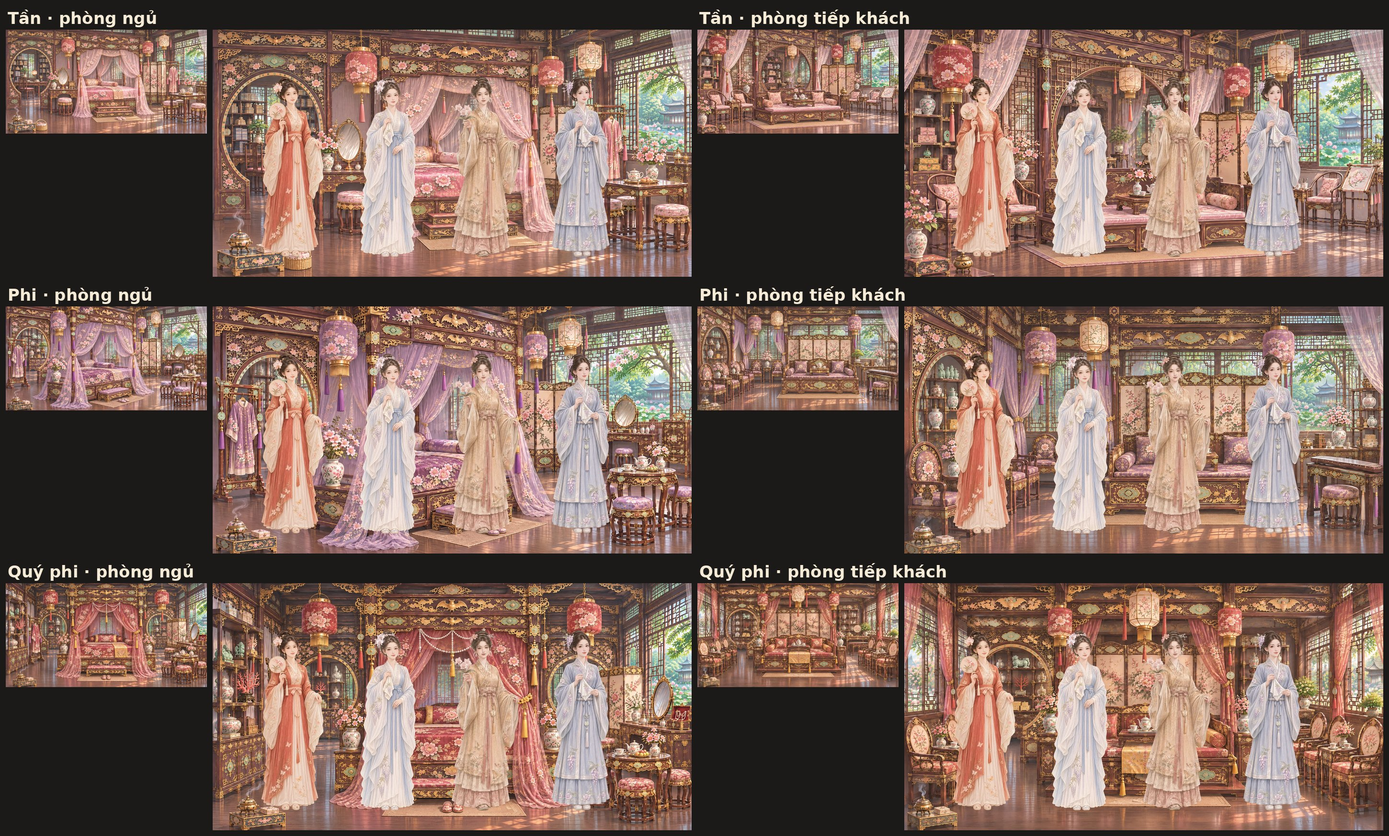
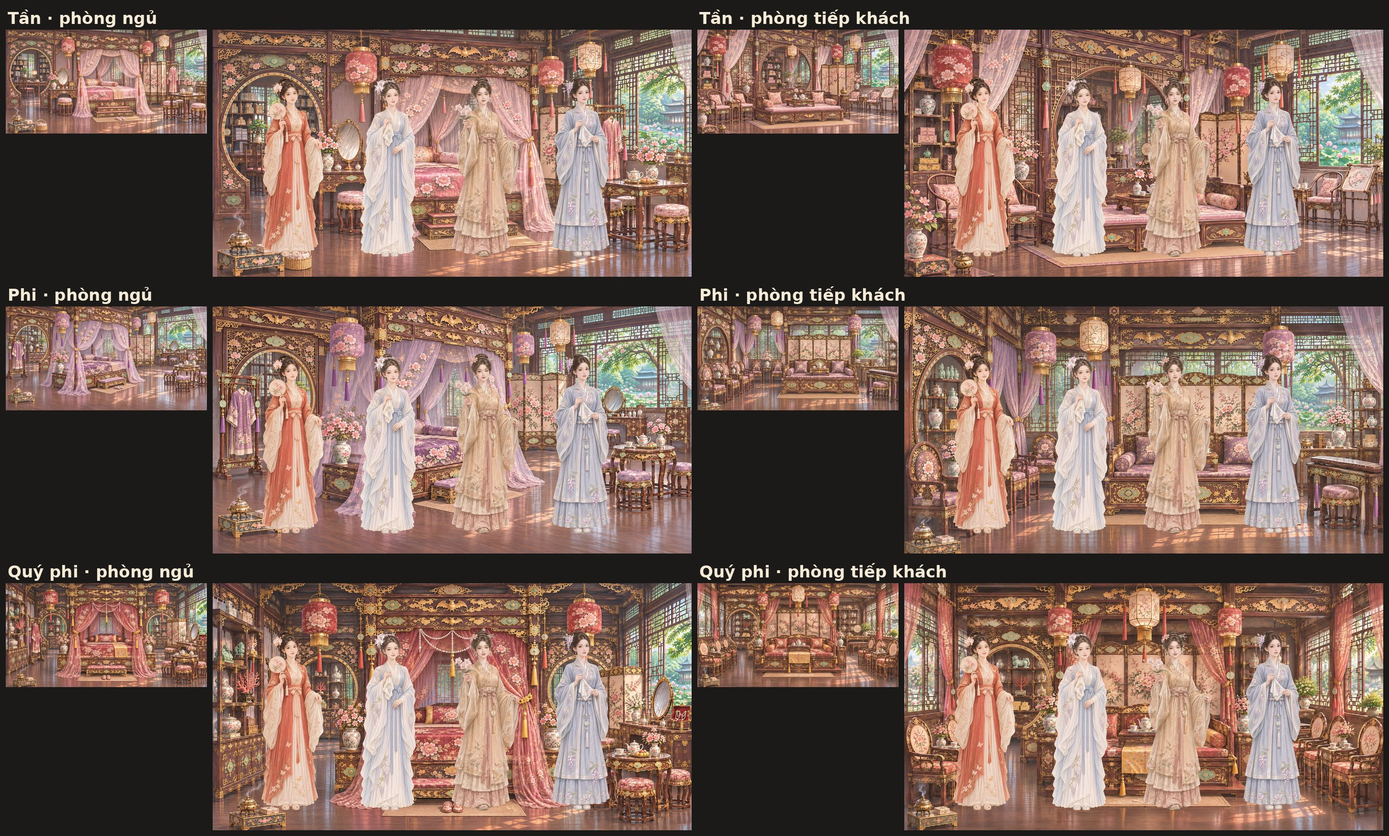
place-rank v6b PR7: Phi bedroom farther back (owner Lượt 548) + HQP prompts
Claude-Session: https://claude.ai/code/session_01PEhRbwronSNrACtu2Qiwhx

Changed region(s): [[0.0, 0.3402, 0.4966, 0.6804]]

diff --git a/dev/art/place-rank/prompts.py b/dev/art/place-rank/prompts.py
@@ -189,3 +189,66 @@ for k, p in out.items():
     out6[k] = q
 json.dump(out6, open(os.path.join(D, 'prompts_v6.json'), 'w'), ensure_ascii=False, indent=1)
 print('v6', len(out6))
+
+# ---- HQP (t7) SAMPLE pair (owner Lượt 520 "add HQP bedroom + reception to compare with Hoàng hậu"; ROOT-50 answer: no HQP palace in game data ->
+# PR7 picked TRƯỜNG XUÂN CUNG (in the game's Đông lục cung list, no rooms drawn yet). A1: ONE sample pair, then STOP. L11 own layout, L5 rectilinear,
+# I1 yellow/phoenix gradient (HQP = clearly less yellow than HH, phoenix allowed), L12 floor share (v6 numbers). Image 3 = closeness guide only (v6 Phi bedroom).
+CARD_TX = ("Trường Xuân cung signature style, the same in every room of this palace: white magnolias (ngọc lan) are its flower, painted on the screens, "
+           "embroidered on the silks and in the vases; borders of the endless swastika fret and round longevity medallions carved in the beams and furniture; "
+           "dark zitan sandalwood with gold lacquer and mother-of-pearl inlay; square-backed zitan furniture (never round-backed); a tall vase-shaped doorway "
+           "(never a round moon gate) in a carved openwork partition; screens with kingfisher-blue feather inlay. ")
+LUX7 = ("HOÀNG QUÝ PHI level: clearly richer than a Quý phi and only one step below the Empress: gold lacquer and gilt carving, mother-of-pearl, "
+        "pearls, jade, coral, cloisonné and kingfisher-blue inlay, many treasures, yet less gold and less yellow than an Empress's room. ")
+COL7 = (" COLOURS (owner rank rule): golden apricot yellow, a warmer and softer gold-yellow than the Empress's bright imperial yellow, only in the bedding "
+        "and seat brocades and cushions; deep ruby red for the curtains, lanterns and tassels; the walls, pillars and wood stay dark zitan and red lacquer, "
+        "so the room reads clearly less yellow than an Empress's room. Phoenixes allowed but few and small: a pair of small phoenixes embroidered or "
+        "carved among magnolias, never golden phoenix statues, never phoenixes everywhere.")
+FLOOR7 = (" LAYOUT NUMBERS (owner Lượt 477, 491, 520): seen as close and as low as in image 3 (image 3 is only a guide for how close and how full the room is, "
+          "NOT for its arrangement, colours or furniture: this room has its own different arrangement as written above), the furniture fills about five "
+          "sixths of the room, the main piece large with its base reaching down to about seven eighths of the picture height; the open floor in front is "
+          "only a strip of about one tenth of the picture height at the centre, and nothing stands on that strip, because people will stand there. "
+          "The right corner is furnished, never empty or bare: a table group stands there inside the outer fifth of the width, set back from the bottom "
+          "edge, between one half and seven eighths of the picture height, so a person standing in front of it covers it naturally.")
+HQP = {
+ 'truong-xuan-cung-hqp-ngu': dict(room="Trường Xuân cung chính điện bedroom, the private bedchamber of the Imperial Noble Consort (Hoàng quý phi), the highest consort below the Empress, "
+    "in ancient China, a real room in daily use, seen straight on with the back wall straight across the picture and the right side wall running towards the viewer "
+    "in clear perspective, meeting at a square corner; dark zitan pillars and beams with gold lacquer; the main subject is a grand walk-in canopy bed (a babu bed: a "
+    "bed built like a small carved room with its own front porch and a carved openwork front gate) standing against the back wall, centred, square to it and seen "
+    "straight on, the large clear main subject, its carved front gate open, ruby red silk curtains tied back inside, golden apricot brocade bedding embroidered "
+    "with white magnolias and a pair of small phoenixes, pearl strings on the gate; to the left of the bed, flat against the back wall, a tall folding screen with "
+    "kingfisher-blue feather inlay and magnolias; to the right of the bed a carved openwork partition with a tall vase-shaped doorway giving a glimpse of a "
+    "dressing room; tall carved lattice windows in the right side wall onto a sunny courtyard garden with a magnolia tree; along the walls a gold-lacquer dressing "
+    "table with a tall bronze mirror and a jewellery cabinet open with pearls and jade, a zitan curio shelf of jade, coral and cloisonné treasures, ornate hanging "
+    "palace lanterns with ruby red tassels, a clothes stand with a ruby red robe, cloisonné vases of magnolia branches, a gold incense burner, slippers on the "
+    "bed porch step. " + CARD_TX + LUX7 + COL7 + RECT + FLOOR7,
+    floor='warm polished wooden floorboards', mat='the bed porch step', key='the walk-in canopy bed'),
+ 'truong-xuan-cung-hqp': dict(room="Trường Xuân cung chính điện reception room, the hall where the Imperial Noble Consort (Hoàng quý phi), the highest consort below the Empress, "
+    "in ancient China receives her guests, a real room in daily use, no bed anywhere, seen straight on with the back wall straight across the picture and the right "
+    "side wall running towards the viewer in clear perspective, meeting at a square corner; dark zitan pillars and beams with gold lacquer, a horizontal gilt "
+    "plaque with carved characters high on the back wall; a carved openwork floor-to-ceiling arch frame (a luozhao) spans the room from wall to wall, square to the "
+    "back wall, framing an inner raised area; inside it, on a low one-step platform against the back wall, exactly centred and seen straight on, the host seat: a "
+    "wide square-backed zitan luohan daybed with gold lacquer and mother-of-pearl inlay, golden apricot brocade cushions embroidered with magnolias, a small low "
+    "kang table with a gold-trimmed tea set in its middle, behind it a large folding screen with kingfisher-blue feather inlay and white magnolias with a pair of "
+    "small phoenixes; on each side of the platform a tall cloisonné flower stand with magnolias; in front of the arch frame ONE straight row of square-backed zitan "
+    "armchairs with golden apricot cushions and small tea tables between them stands flat along the right side wall, square to it (seen in perspective, never "
+    "curved), and a carved vase-shaped doorway opens in the left part of the back wall; deep ruby red sheer curtains tied back with tassels, ornate hanging palace "
+    "lanterns with ruby red tassels, curio shelves of jade, coral and cloisonné treasures, a gold incense burner, a guqin on a stand, potted plants. "
+    + CARD_TX + LUX7 + COL7 + NOSOFA + RECT + FLOOR7,
+    floor='warm polished wooden floorboards', mat='the platform', key='the luohan daybed on its platform'),
+}
+HQPREF = 'If3UHfPtvE'  # image 3 = closeness guide only (v6 Phi bedroom)
+outh = {k: T.replace('{SEASON_TIME}', 'summer morning').replace('{TIME_LIGHT}', 'morning daylight').replace('{ROOM_LINE}', r['room'])
+           .replace('{FLOOR}', r['floor']).replace('{MAT_UNDER}', r['mat']).replace('{KEY_PIECE}', r['key']) for k, r in HQP.items()}
+assert all('{' not in v and 'moon-gate' not in v for v in outh.values())
+json.dump(outh, open(os.path.join(D, 'prompts_hqp.json'), 'w'), ensure_ascii=False, indent=1)
+print('hqp', len(outh), max(len(v) for v in outh.values()))
+
+# ---- v6b (owner Lượt 548 via ROOT-50, A20): Phi bedroom v6 If3UHfPtvE "đang bị sát, gần quá" -> ONLY the camera distance changes:
+# a little farther back, distance like the Quý phi bedroom v6 (gOmViD0SXO, OK), not cropped; floor numbers of v6 stay. image 3 = v3 SyhTG51Ub8 (own layout).
+FLOOR6B = FLOOR6.replace("seen a little closer and lower so less floor shows:",
+    "seen from about the same distance as image 3, NOT closer (owner Lượt 548: not too close), so the whole canopy bed with its top and its curtains fits "
+    "inside the picture with some space around it, nothing cropped; the camera is only a little lower so less floor shows:")
+assert FLOOR6B != FLOOR6
+outb = {'canh-phuc-cung-phi-ngu': out6['canh-phuc-cung-phi-ngu'].replace(FLOOR6, FLOOR6B)}
+assert outb['canh-phuc-cung-phi-ngu'] != out6['canh-phuc-cung-phi-ngu']
+json.dump(outb, open(os.path.join(D, 'prompts_v6b.json'), 'w'), ensure_ascii=False, indent=1)

diff --git a/dev/handover/reports/place-rank-sample.md b/dev/handover/reports/place-rank-sample.md
@@ -203,3 +203,5 @@ Notes (ours, NOT prompt changes — LAW #0): Tần reception left armchair pair 
 | Khôn Ninh reception | rgXnGrDxtc | ~15 % → ~4 % |
 Sheet: dev/handover/review-sheets/place-rank/place-rank-B-phoi-khon-ninh.jpg · CDN https://ctm-img.victoria-tntt.workers.dev/img/_review/place-rank/place-rank-B-phoi-khon-ninh.jpg
 Notes (ours, not changed): Khôn Ninh reception — the front low table + stools now reach the bottom edge, so on the people sheet figures 3–4 stand among/over the stools (feet not on clear floor).
+### Owner Lượt 548 (sheet A): all distances OK EXCEPT Phi bedroom v6 "gần quá" → v6b redraw (A20), only the camera distance
+Phi bedroom v6b aFGyN6afSh (prompts_v6b.json: FLOOR SHARE sentence says "same distance as image 3, NOT closer, whole bed fits, nothing cropped, camera only a little lower"; image 3 = own v3 SyhTG51Ub8). Open centre floor ~14 %. v6 If3UHfPtvE kept in img/_review/place-rank/v6/. Sheet A rebuilt.
